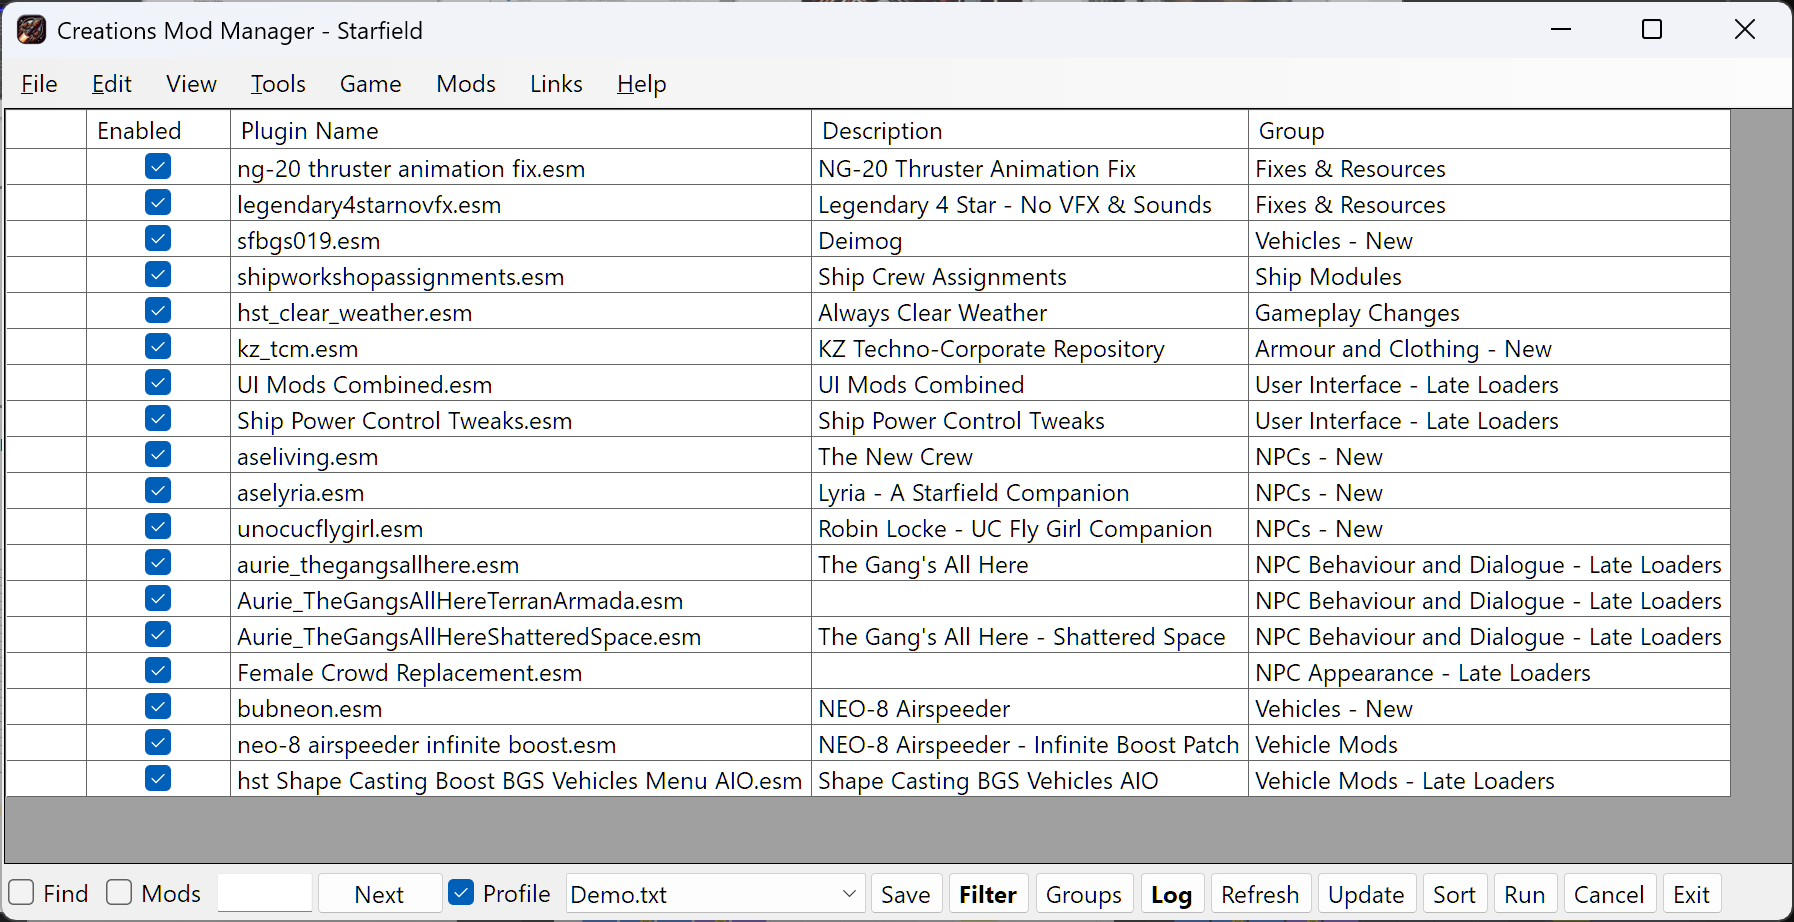
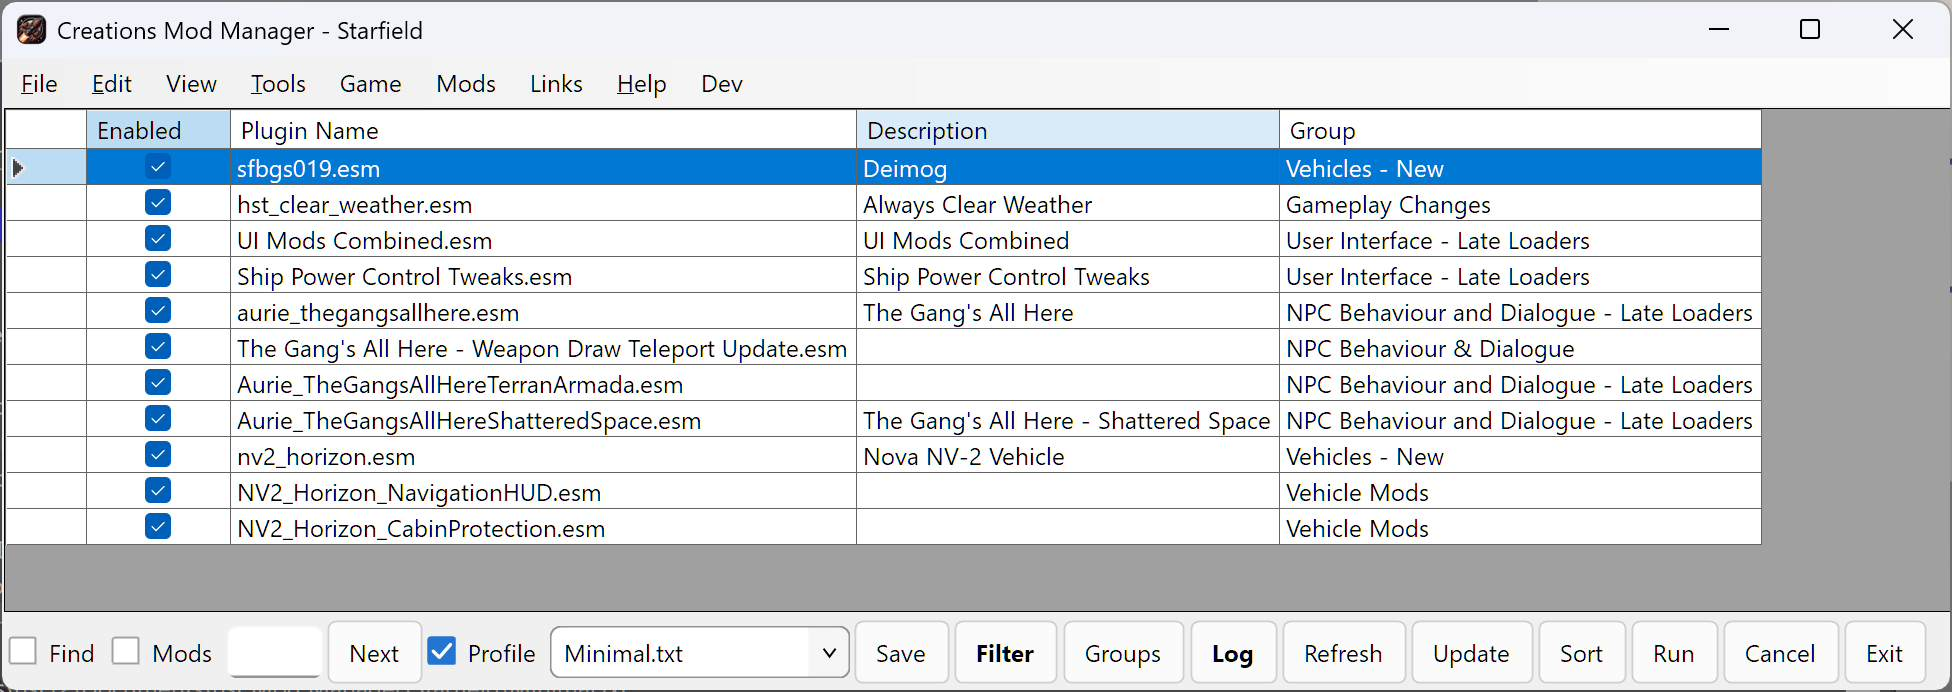
App startup set to FormRevelMode.Deferred

diff --git a/Program.cs b/Program.cs
@@ -10,14 +10,14 @@ namespace hstCMM
         /// The main entry point for the application.
         /// </summary>
         [STAThread]
-        static void Main(string[] args)
+        private static void Main(string[] args)
         {
-
             Application.EnableVisualStyles();
             Application.SetDefaultVisualStylesMode(VisualStylesMode.Latest);
             Application.SetCompatibleTextRenderingDefault(false);
-            Application.SetHighDpiMode(HighDpiMode.SystemAware);
-            
+            Application.SetHighDpiMode(HighDpiMode.PerMonitorV2);
+            Application.SetDefaultFormRevealMode(FormRevealMode.Deferred);
+
             Process currentProcess = Process.GetCurrentProcess();
             var runningProcesses = Process.GetProcessesByName(currentProcess.ProcessName);
 
